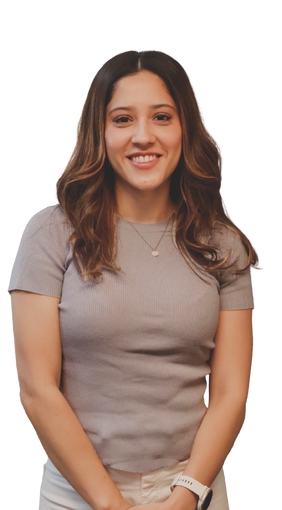
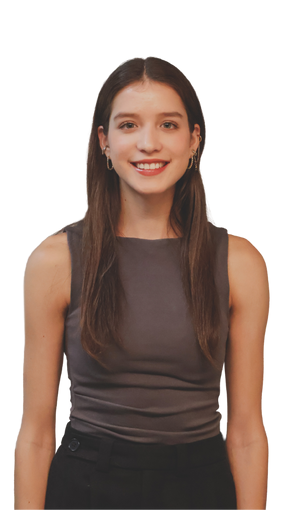
Fix equipo page: correct names, photos, and colors per real team lineup
- Rename Dr. Juan Francisco Lozano → Ramírez (slug, name, photo, blog refs)
- Remove Dra. María José Delgado (not part of current team)
- Add Lic. Balbina Cantú (Psicopedagoga, teal-light pill)
- Update pill colors to match brand assignment: lime/yellow/orange/sky/lavender/teal-light
- Add 'yellow' to COLOR_MAP, remove hardcoded nth-child CSS overrides
- Switch equipo grid 4→3 cols for clean 3+3 layout
- Refactor nosotros team section to pull from DOCTORS array (was stale hardcoded)
- Replace photos with bg-removed PNGs for proper pill rendering

diff --git a/src/lib/data.ts b/src/lib/data.ts
@@ -310,64 +310,64 @@ export interface Doctor {
 
 export const DOCTORS: Doctor[] = [
   {
-    slug: "dr-juan-francisco-lozano",
-    initials: "JL",
-    name: "Dr. Juan Francisco Lozano",
+    slug: "dr-juan-francisco-ramirez",
+    initials: "JR",
+    name: "Dr. Juan Francisco Ram\u00edrez",
     role: "Pediatra del desarrollo y comportamiento",
-    color: "lavender",
-    photo: "/team/dr-lozano.png",
+    color: "lime",
+    photo: "/team/dr-ramirez.png",
     bio: "M\u00e9dico cirujano egresado del Tecnol\u00f3gico de Monterrey y maestro en Ciencias en Investigaci\u00f3n Cl\u00ednica por Northwestern University en Chicago, IL. Realiz\u00f3 su residencia en Pediatr\u00eda en el Children\u2019s Hospital of Michigan en Detroit, y posteriormente su subespecialidad en Pediatr\u00eda del Desarrollo y Comportamiento en Nationwide Children\u2019s Hospital en Columbus, OH. Es miembro de diversas sociedades m\u00e9dicas en M\u00e9xico y Estados Unidos, adem\u00e1s de desempe\u00f1arse como profesor e investigador en el Tec de Monterrey. Su pr\u00e1ctica cl\u00ednica se centra en brindar atenci\u00f3n integral y basada en evidencia a ni\u00f1os y adolescentes con trastornos del neurodesarrollo.",
     specialties: ["Evaluaci\u00f3n del desarrollo", "TDAH", "TEA", "Retrasos del desarrollo"],
   },
   {
-    slug: "dra-maria-jose-delgado",
-    initials: "MJ",
-    name: "Dra. Mar\u00eda Jos\u00e9 Delgado",
-    role: "Pediatra \u00b7 Alta Especialidad en S\u00edndrome de Down",
-    color: "coral",
-    photo: "/team/dra-delgado.png",
-    bio: "Pediatra con alta especialidad en S\u00edndrome de Down. Acompa\u00f1a a familias desde el diagn\u00f3stico con un enfoque integral y basado en evidencia.",
-    specialties: ["S\u00edndrome de Down", "Pediatr\u00eda general", "Seguimiento integral"],
+    slug: "lic-daniela-paez",
+    initials: "DP",
+    name: "Lic. Daniela Pa\u00e9z",
+    role: "Terapeuta del lenguaje y habla",
+    color: "yellow",
+    photo: "/team/lic-paez.png",
+    bio: "Licenciada y maestra en Trastornos de la Comunicaci\u00f3n por universidades en Texas. Ha trabajado en cl\u00ednicas de rehabilitaci\u00f3n, hospitales y escuelas en EE.UU., atendiendo a beb\u00e9s, ni\u00f1os y adolescentes con trastornos del lenguaje, habla, alimentaci\u00f3n y degluci\u00f3n. Fundadora de Plan Diez Terapia del Lenguaje, combina su formaci\u00f3n biling\u00fce e internacional con un enfoque familiar y transdisciplinario.",
+    specialties: ["Trastornos del lenguaje", "Habla", "Alimentaci\u00f3n y degluci\u00f3n", "Terapia biling\u00fce"],
+  },
+  {
+    slug: "lic-nora-martinez",
+    initials: "NM",
+    name: "Lic. Nora Mart\u00ednez",
+    role: "Diagn\u00f3stico y Psicoterapia breve sist\u00e9mica",
+    color: "orange",
+    photo: "/team/lic-martinez.png",
+    bio: "Psic\u00f3loga por la UDEM con Maestr\u00eda en Psicoterapia Breve Sist\u00e9mica. M\u00e1s de una d\u00e9cada de experiencia cl\u00ednica en psicoterapia y evaluaci\u00f3n diagn\u00f3stica en contextos escolares y de desarrollo. Terapeuta en programas de estimulaci\u00f3n del desarrollo y docente en colegios privados, con certificaciones en DIR/Floortime, neurociencias y terapias basadas en evidencia. Su pr\u00e1ctica se centra en ofrecer estrategias efectivas y humanas para ni\u00f1os y familias.",
+    specialties: ["Psicoterapia Breve Sist\u00e9mica", "DIR/Floortime", "Evaluaci\u00f3n diagn\u00f3stica", "Estimulaci\u00f3n del desarrollo"],
   },
   {
     slug: "dra-sofia-garcia",
     initials: "SG",
     name: "Dra. Sof\u00eda Garc\u00eda",
     role: "Terapeuta y analista del comportamiento",
-    color: "teal-light",
+    color: "sky",
     photo: "/team/dra-garcia.png",
     bio: "M\u00e9dico cirujano egresada del Tec de Monterrey, actualmente cursando una Maestr\u00eda en Autismo y Discapacidades del Desarrollo en la University of Texas at Austin. Cuenta con experiencia en hospitales de alto nivel como Zambrano Hellion Tec Salud, as\u00ed como en programas de atenci\u00f3n a ni\u00f1os con S\u00edndrome de Down y Trastorno del Espectro Autista. Su enfoque cl\u00ednico combina la evidencia cient\u00edfica con un acompa\u00f1amiento humano, cercano a cada familia.",
     specialties: ["Autismo", "Discapacidades del desarrollo", "S\u00edndrome de Down", "An\u00e1lisis conductual"],
   },
   {
-    slug: "lic-daniela-paez",
-    initials: "DP",
-    name: "Lic. Daniela P\u00e1ez",
-    role: "Terapeuta del Lenguaje y Habla",
-    color: "coral",
-    photo: "/team/lic-paez.png",
-    bio: "Licenciada y maestra en Trastornos de la Comunicaci\u00f3n por universidades en Texas. Ha trabajado en cl\u00ednicas de rehabilitaci\u00f3n, hospitales y escuelas en EE.UU., atendiendo a beb\u00e9s, ni\u00f1os y adolescentes con trastornos del lenguaje, habla, alimentaci\u00f3n y degluci\u00f3n. Fundadora de Plan Diez Terapia del Lenguaje, combina su formaci\u00f3n biling\u00fce e internacional con un enfoque familiar y transdisciplinario.",
-    specialties: ["Trastornos del lenguaje", "Habla", "Alimentaci\u00f3n y degluci\u00f3n", "Terapia biling\u00fce"],
-  },
-  {
     slug: "lic-rebeca-zepeda",
     initials: "RZ",
     name: "Lic. Rebeca Zepeda",
-    role: "Psic\u00f3loga Cl\u00ednica y de la Salud",
-    color: "sky",
+    role: "Psic\u00f3loga cl\u00ednica y de la salud",
+    color: "lavender",
     photo: "/team/lic-zepeda.png",
     bio: "Psic\u00f3loga cl\u00ednica y de la salud, egresada del Tecnol\u00f3gico de Monterrey, actualmente cursando una Maestr\u00eda en Psicoterapia. Su experiencia incluye trabajo como psic\u00f3loga en escuelas internacionales y como terapeuta en organizaciones de apoyo familiar, brindando atenci\u00f3n a ni\u00f1os, adolescentes y adultos. Con formaci\u00f3n en psicopatolog\u00eda infantil y terapias de tercera generaci\u00f3n, combina rigor acad\u00e9mico con calidez humana para acompa\u00f1ar a cada paciente en su proceso de bienestar.",
     specialties: ["Psicoterapia", "Psicopatolog\u00eda infantil", "Terapias de tercera generaci\u00f3n", "Salud mental infantil y adolescente"],
   },
   {
-    slug: "lic-nora-martinez",
-    initials: "NM",
-    name: "Lic. Nora Mart\u00ednez",
-    role: "Psicoterapia Breve Sist\u00e9mica",
-    color: "yellow",
-    photo: "/team/lic-martinez.png",
-    bio: "Psic\u00f3loga por la UDEM con Maestr\u00eda en Psicoterapia Breve Sist\u00e9mica. M\u00e1s de una d\u00e9cada de experiencia cl\u00ednica en psicoterapia y evaluaci\u00f3n diagn\u00f3stica en contextos escolares y de desarrollo. Terapeuta en programas de estimulaci\u00f3n del desarrollo y docente en colegios privados, con certificaciones en DIR/Floortime, neurociencias y terapias basadas en evidencia. Su pr\u00e1ctica se centra en ofrecer estrategias efectivas y humanas para ni\u00f1os y familias.",
-    specialties: ["Psicoterapia Breve Sist\u00e9mica", "DIR/Floortime", "Evaluaci\u00f3n diagn\u00f3stica", "Estimulaci\u00f3n del desarrollo"],
+    slug: "lic-balbina-cantu",
+    initials: "BC",
+    name: "Lic. Balbina Cant\u00fa",
+    role: "Psicopedagoga",
+    color: "teal-light",
+    photo: "/team/lic-cantu.png",
+    bio: "Psicopedagoga con experiencia en evaluaci\u00f3n e intervenci\u00f3n del aprendizaje en ni\u00f1os y adolescentes. Trabaja en coordinaci\u00f3n con familias y escuelas para detectar dificultades espec\u00edficas del aprendizaje y dise\u00f1ar estrategias personalizadas que fortalezcan tanto habilidades acad\u00e9micas como confianza personal.",
+    specialties: ["Dificultades de aprendizaje", "Dislexia", "Disgraf\u00eda", "Estrategias escolares"],
   },
 ];
 

diff --git a/src/app/nosotros/page.tsx b/src/app/nosotros/page.tsx
@@ -5,6 +5,17 @@ import Nav from "@/components/Nav";
 import Footer from "@/components/Footer";
 import FadeIn from "@/components/FadeIn";
 import StaggerChildren, { StaggerItem } from "@/components/StaggerChildren";
+import { DOCTORS } from "@/lib/data";
+
+const COLOR_MAP: Record<string, string> = {
+  lavender: "var(--lavender)",
+  coral: "var(--coral)",
+  "teal-light": "var(--teal-light)",
+  orange: "var(--orange)",
+  sky: "var(--sky)",
+  lime: "var(--lime)",
+  yellow: "var(--yellow)",
+};
 
 const WA_URL =
   "https://wa.me/528182751125?text=Hola%2C%20me%20gustar%C3%ADa%20agendar%20una%20cita";
@@ -203,15 +214,10 @@ export default function Nosotros() {
           </div>
         </FadeIn>
         <StaggerChildren className="equipo-grid" staggerDelay={0.12}>
-          {[
-            { initials: "JL", name: "Dr. Juan Francisco Lozano", role: "Pediatr\u00eda del Desarrollo", photo: "/team/dr-lozano.png", slug: "dr-juan-francisco-lozano" },
-            { initials: "MJ", name: "Dra. Mar\u00eda Jos\u00e9 Delgado", role: "Pediatra \u00b7 S\u00edndrome de Down", photo: "/team/dra-delgado.png", slug: "dra-maria-jose-delgado" },
-            { initials: "SG", name: "Dra. Sof\u00eda Garc\u00eda", role: "Terapia Conductual", photo: "/team/dra-garcia.png", slug: "dra-sofia-garcia" },
-            { initials: "DP", name: "Lic. Daniela P\u00e1ez", role: "Terapia de Lenguaje", photo: "/team/lic-paez.png", slug: "lic-daniela-paez" },
-          ].map((d) => (
-            <StaggerItem key={d.initials}>
+          {DOCTORS.map((d) => (
+            <StaggerItem key={d.slug}>
               <Link href={`/equipo/${d.slug}`} className="doc">
-                <div className="doc-pill" style={{ overflow: "hidden", position: "relative" }}>
+                <div className="doc-pill" style={{ overflow: "hidden", position: "relative", background: COLOR_MAP[d.color] || "var(--sage)" }}>
                   <Image src={d.photo} alt={d.name} fill style={{ objectFit: "cover", objectPosition: "top" }} />
                   <div className="doc-overlay">
                     <h3>{d.name}</h3>

diff --git a/src/app/globals.css b/src/app/globals.css
@@ -831,7 +831,7 @@ nav {
 /* ─── EQUIPO ─── */
 .equipo { border-bottom: 1px solid var(--border); }
 .equipo-header { text-align: center; margin-bottom: 56px; }
-.equipo-grid { display: grid; grid-template-columns: repeat(4, 1fr); gap: 28px; }
+.equipo-grid { display: grid; grid-template-columns: repeat(3, 1fr); gap: 28px; }
 .doc { text-align: center; transition: transform 0.3s var(--ease); cursor: pointer; position: relative; }
 .doc:hover { transform: translateY(-6px); }
 .doc-pill {
@@ -845,10 +845,6 @@ nav {
   overflow: hidden;
   margin-bottom: 16px;
 }
-.doc:nth-child(1) .doc-pill { background: var(--lavender); }
-.doc:nth-child(2) .doc-pill { background: var(--coral); }
-.doc:nth-child(3) .doc-pill { background: var(--teal-light); }
-.doc:nth-child(4) .doc-pill { background: var(--orange); }
 .doc-pill img { object-fit: cover; object-position: top; }
 .doc-overlay {
   position: absolute;

diff --git a/src/app/equipo/page.tsx b/src/app/equipo/page.tsx
@@ -26,6 +26,7 @@ const COLOR_MAP: Record<string, string> = {
   orange: "var(--orange)",
   sky: "var(--sky)",
   lime: "var(--lime)",
+  yellow: "var(--yellow)",
 };
 
 export const metadata: Metadata = {

diff --git a/src/content/blog/hitos-desarrollo-0-5-anos.md b/src/content/blog/hitos-desarrollo-0-5-anos.md
@@ -224,7 +224,7 @@ En Órbita, la evaluación del desarrollo no es un evento aislado. Es un proceso
 
 ### Paso 1: Consulta inicial con pediatría del desarrollo
 
-El Dr. Juan Francisco Lozano o el especialista correspondiente realiza una historia clínica completa. Se revisan antecedentes, hitos alcanzados, preocupaciones de los padres y observación directa del niño durante la consulta. Esta primera sesión suele durar entre 45 y 60 minutos.
+El Dr. Juan Francisco Ramírez o el especialista correspondiente realiza una historia clínica completa. Se revisan antecedentes, hitos alcanzados, preocupaciones de los padres y observación directa del niño durante la consulta. Esta primera sesión suele durar entre 45 y 60 minutos.
 
 ### Paso 2: Evaluaciones complementarias
 
